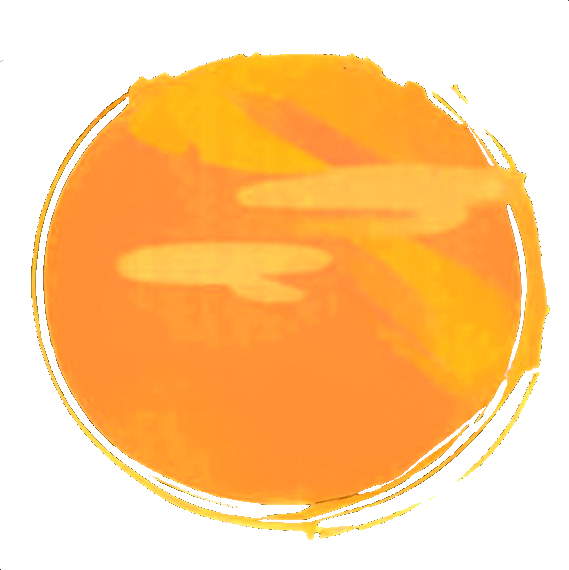
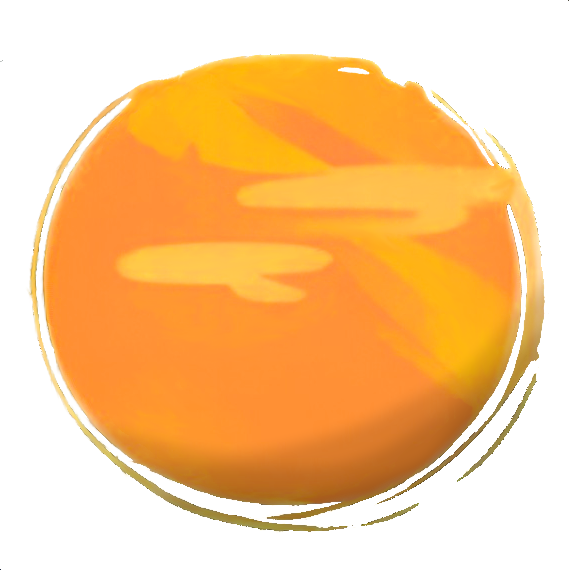
Planet graphics changed

Changed region(s): [[0.0299, 0.1193, 0.9859, 0.9544], [0.3585, 0.0895, 0.6872, 0.1491]]

diff --git a/SpaceApes/src/spaceapes/Map.java b/SpaceApes/src/spaceapes/Map.java
@@ -41,8 +41,10 @@ public class Map {
 	 */
 	public void initPlanets() {
 		// Home planets zufaellig auf den Spielfeld Haelften platzieren
-		Planet planet1 = new Planet("Planet1", Utils.randomFloat(-6, -2), Utils.randomFloat(-4, 4)); // rechte Haelfte
-		Planet planet2 = new Planet("Planet2", Utils.randomFloat(2, 6), Utils.randomFloat(-4, 4)); // linke Haelfte
+		Planet planet1 = new Planet("Planet1", Utils.randomFloat(-5.5f, -2.5f), Utils.randomFloat(-3.5f, 3.5f)); // rechte
+																													// Haelfte
+		Planet planet2 = new Planet("Planet2", Utils.randomFloat(2.5f, 5.5f), Utils.randomFloat(-3.5f, 3.5f)); // linke
+																												// Haelfte
 		listOfPlanets.add(planet1); // Speichern in der Planeten Liste des Map Objekts
 		listOfPlanets.add(planet2);
 		try {
@@ -80,20 +82,20 @@ public class Map {
 	 */
 	private void addRandomImageToPlanet(Planet planet, boolean allowRings) throws SlickException {
 		Random r = new Random();
-		int imageNumber = r.nextInt(3) + 1; // Integer im Intervall [1, 3]
+		int imageNumber = r.nextInt(4) + 1; // Integer im Intervall [1, 4]
 		if (allowRings) {
-			imageNumber = r.nextInt(4) + 1; // Integer im Intervall [1, 4]
+			imageNumber = r.nextInt(7) + 1; // Integer im Intervall [1, 7]
 		}
 
 		switch (imageNumber) {
 		default: // Eqivalent zu case 1
 			planet.addComponent(new ImageRenderComponent(new Image("/assets/planet1.png")));
-			float ScalingFactorPlanet1 = 0.31f;
+			float ScalingFactorPlanet1 = 0.315f;
 			planet.setScale(planet.getRadius() * ScalingFactorPlanet1);
 			break;
 		case 2:
 			planet.addComponent(new ImageRenderComponent(new Image("/assets/planet2.png")));
-			float ScalingFactorPlanet2 = 0.32f;
+			float ScalingFactorPlanet2 = 0.325f;
 			planet.setScale(planet.getRadius() * ScalingFactorPlanet2);
 			break;
 		case 3:
@@ -102,9 +104,24 @@ public class Map {
 			planet.setScale(planet.getRadius() * ScalingFactorPlanet3);
 			break;
 		case 4:
+			planet.addComponent(new ImageRenderComponent(new Image("/assets/planet4.png")));
+			float ScalingFactorPlanet4 = 0.31f;
+			planet.setScale(planet.getRadius() * ScalingFactorPlanet4);
+			break;
+		case 5:
 			planet.addComponent(new ImageRenderComponent(new Image("/assets/ring_planet1.png")));
-			float ScalingFactorRingPlanet1 = 0.35f;
+			float ScalingFactorRingPlanet1 = 0.345f;
 			planet.setScale(planet.getRadius() * ScalingFactorRingPlanet1);
+			break;
+		case 6:
+			planet.addComponent(new ImageRenderComponent(new Image("/assets/ring_planet2.png")));
+			float ScalingFactorRingPlanet2 = 0.335f;
+			planet.setScale(planet.getRadius() * ScalingFactorRingPlanet2);
+			break;
+		case 7:
+			planet.addComponent(new ImageRenderComponent(new Image("/assets/ring_planet3.png")));
+			float ScalingFactorRingPlanet3 = 0.31f;
+			planet.setScale(planet.getRadius() * ScalingFactorRingPlanet3);
 			break;
 		}
 	}
